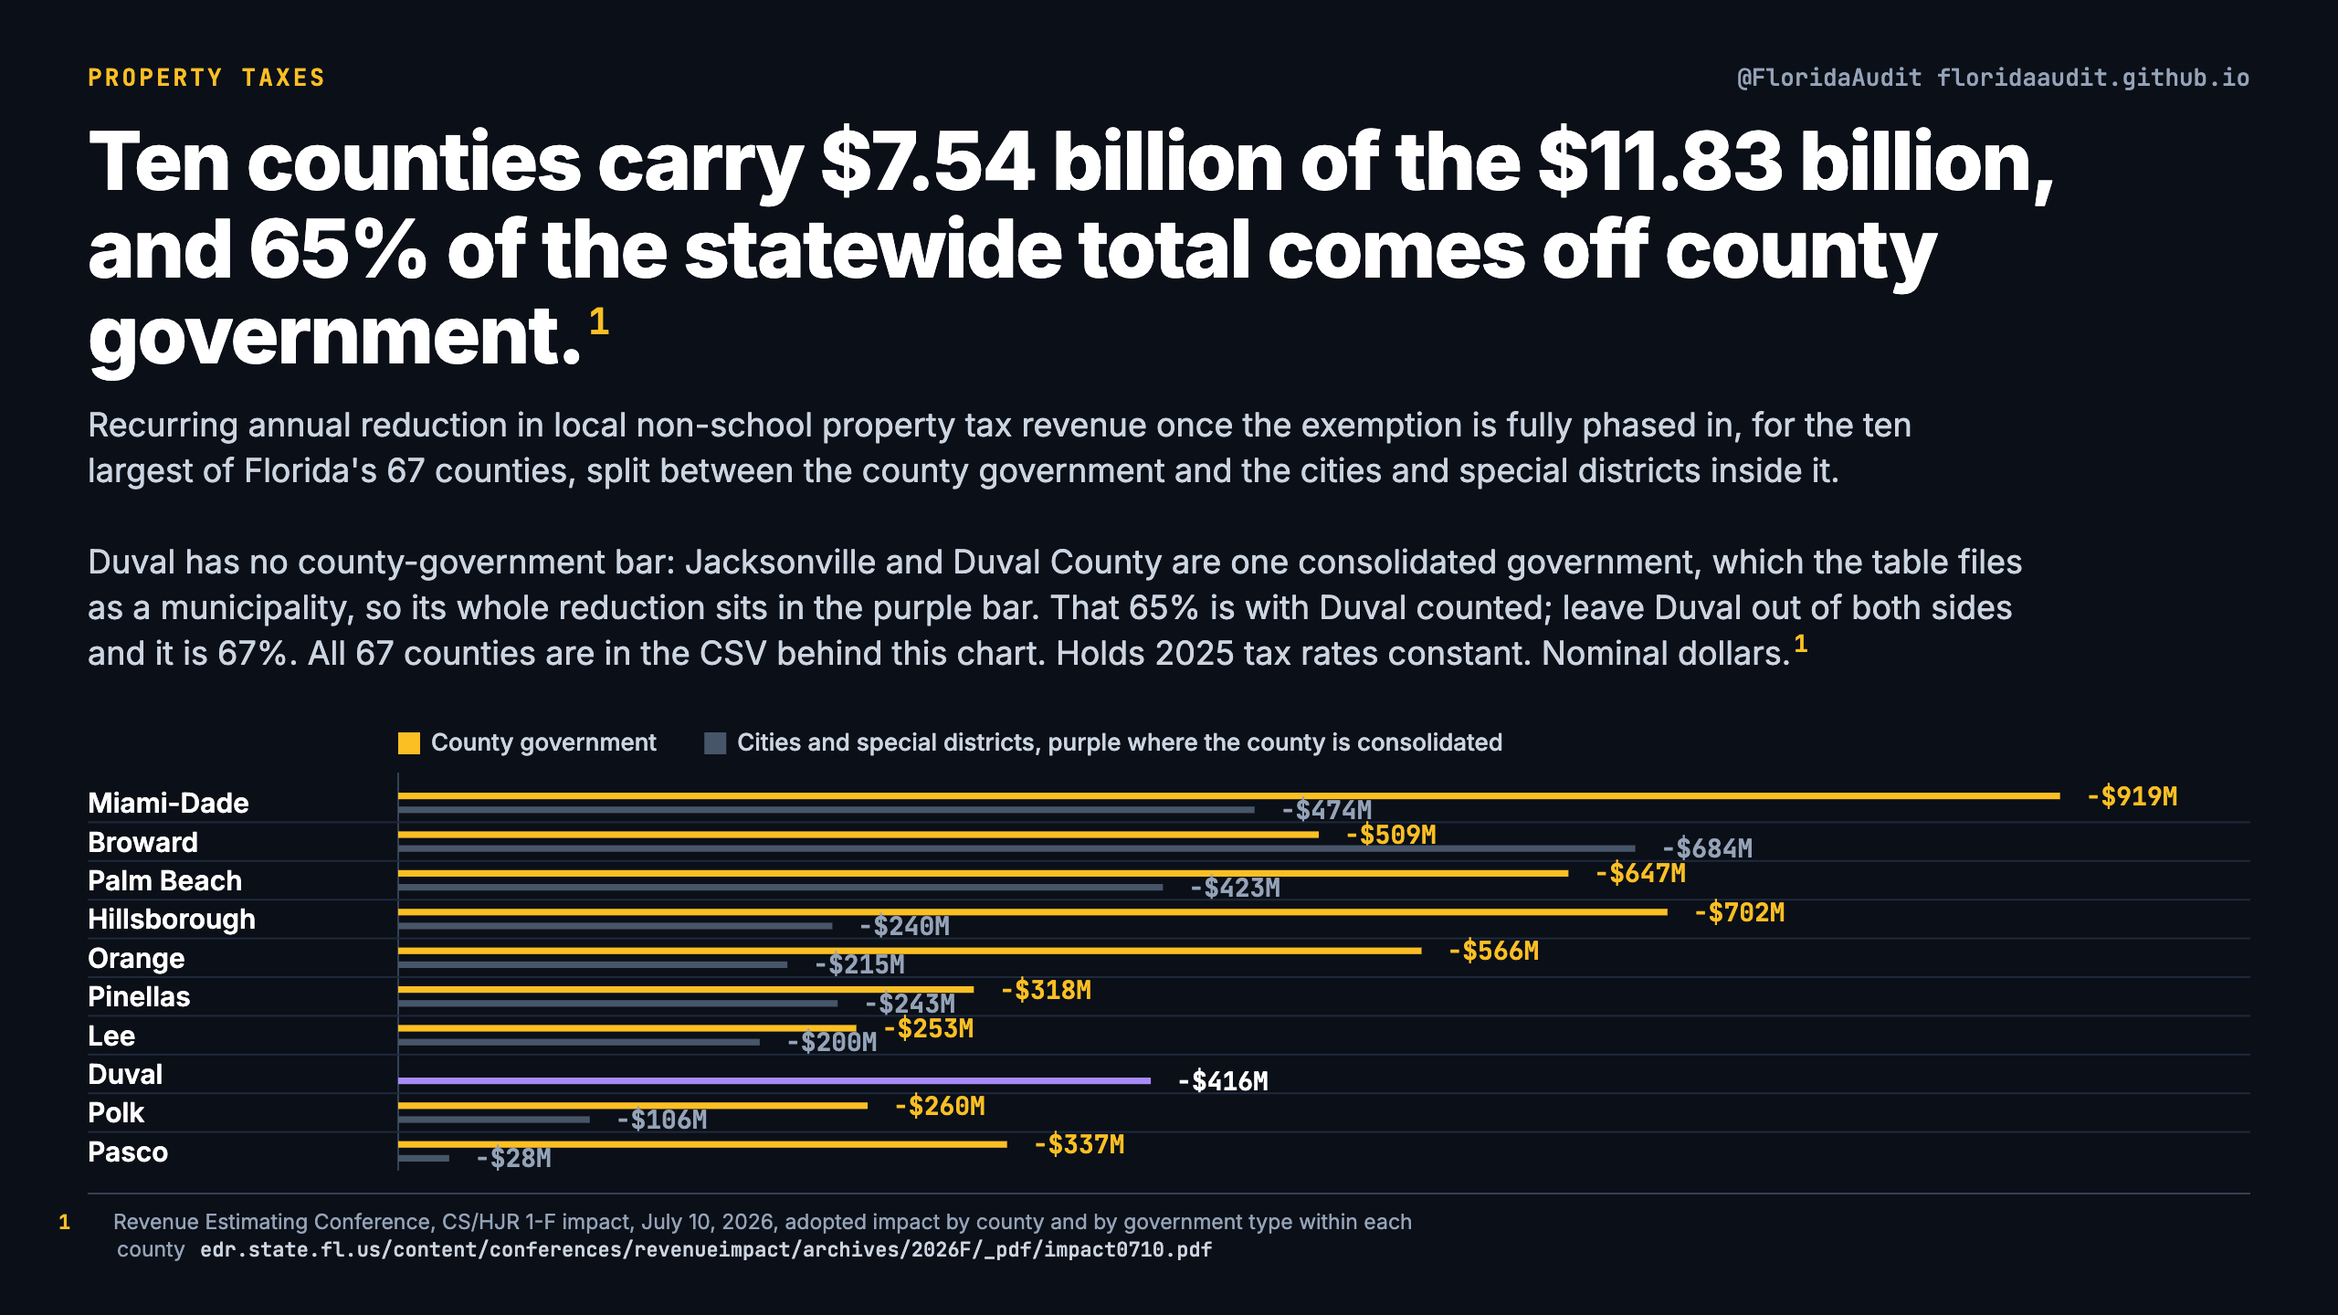
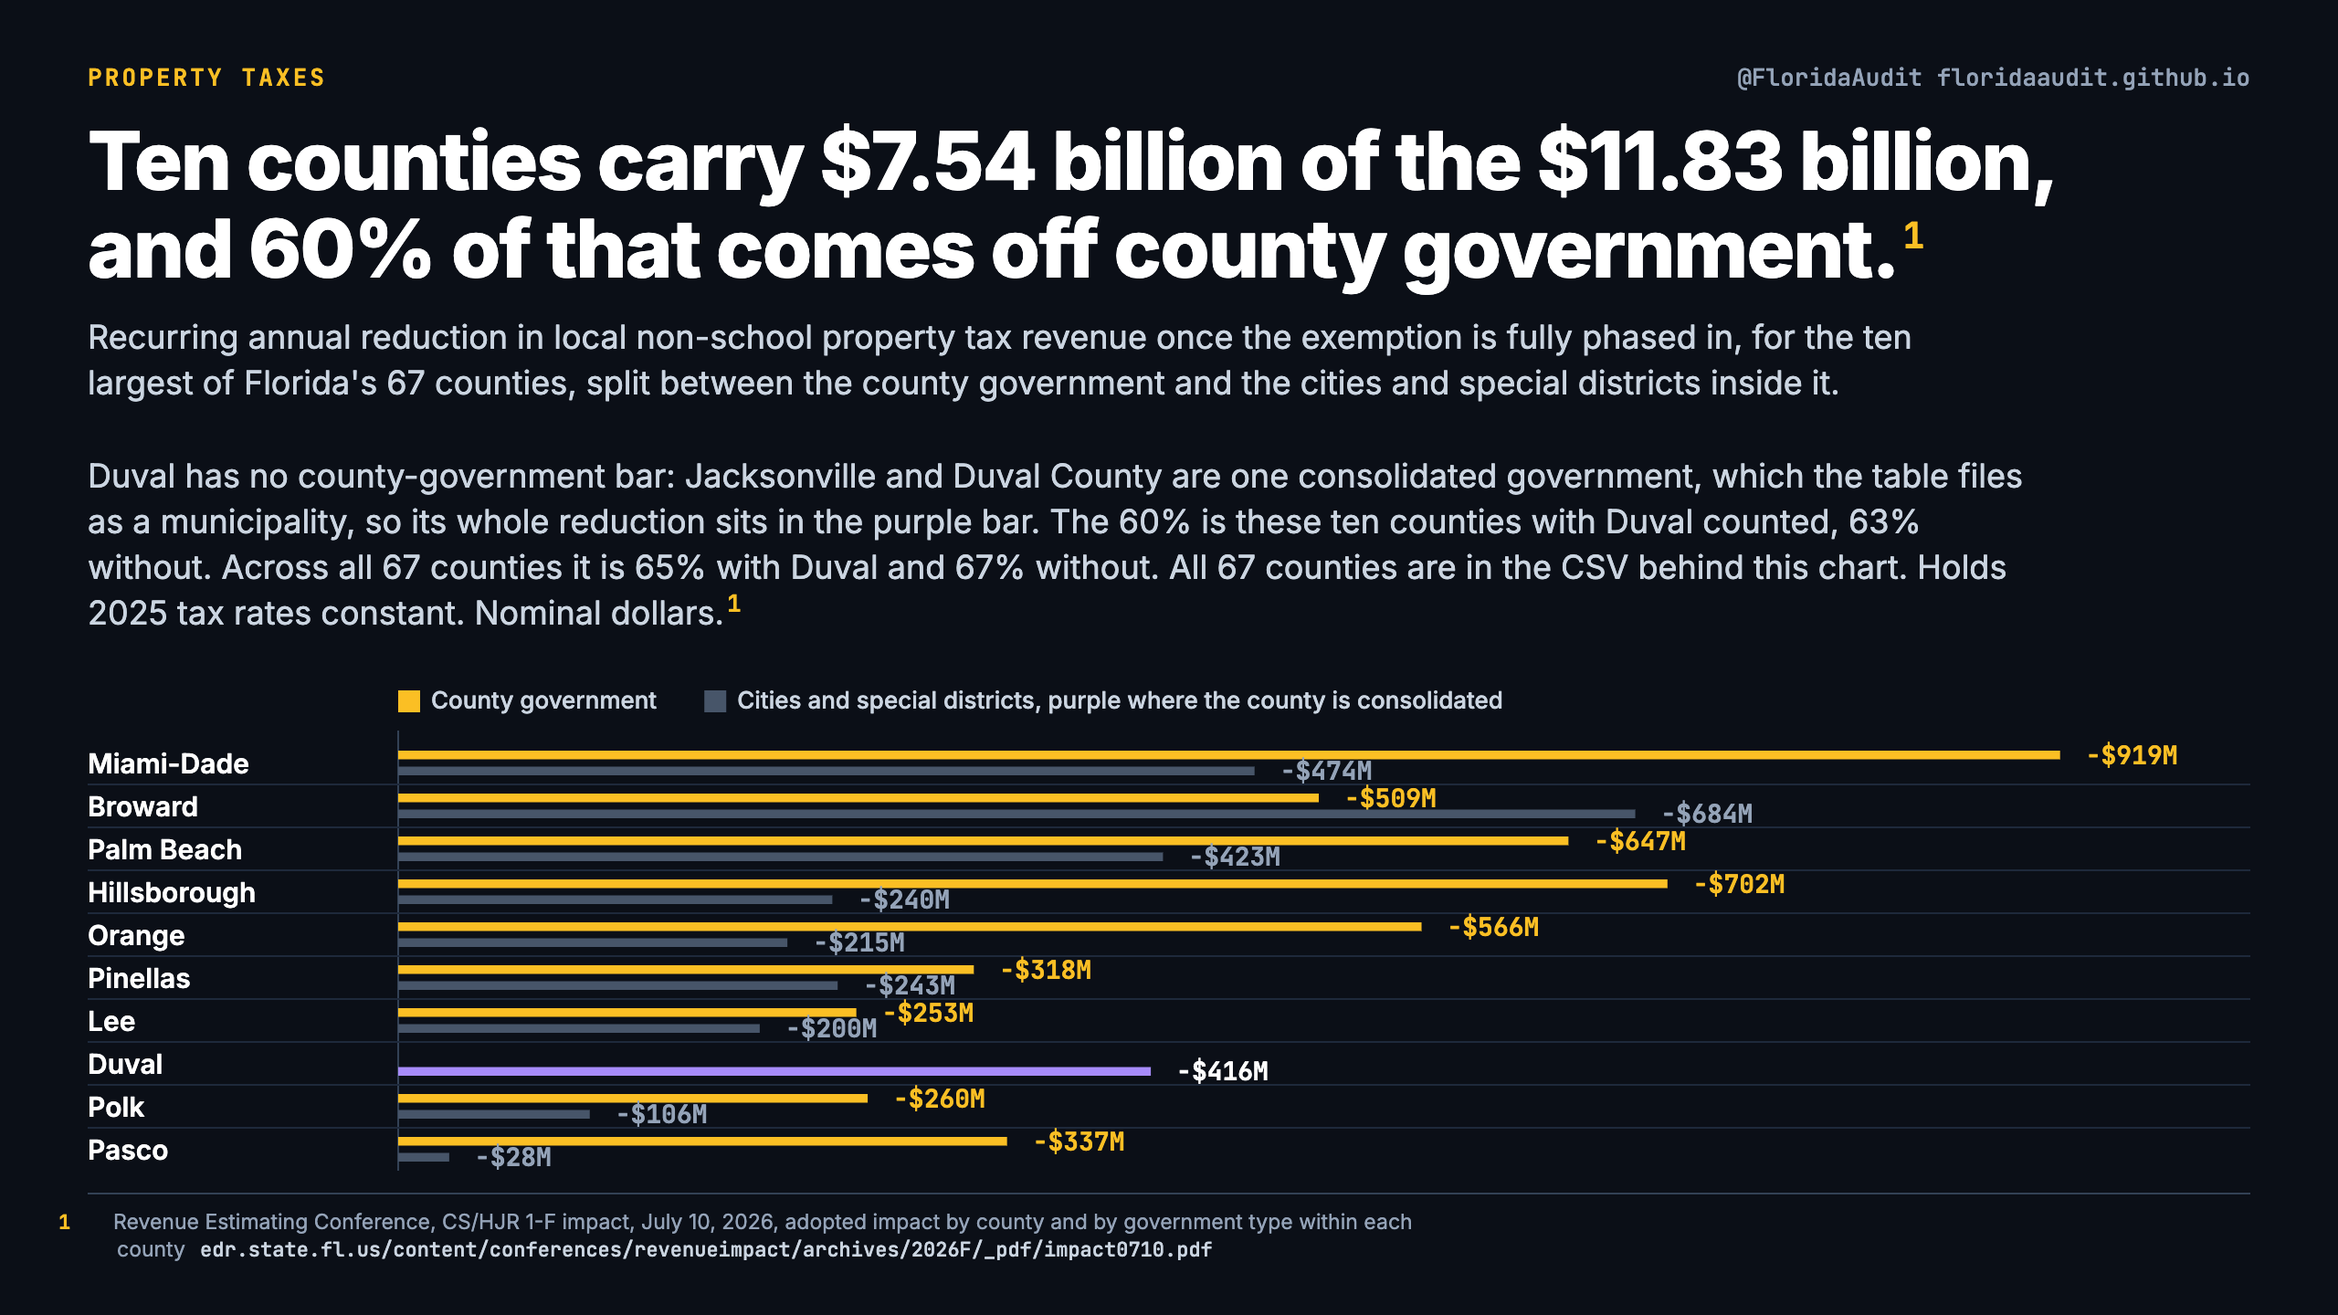
Chart 7 headline states the ten-county share, 60%, not the statewide 65%

Changed region(s): [[0.0312, 0.1562, 0.9375, 0.875]]

diff --git a/c/property-taxes/ten-counties-by-government-type.html b/c/property-taxes/ten-counties-by-government-type.html
@@ -3,32 +3,32 @@
 <head>
   <meta charset="utf-8">
   <meta name="viewport" content="width=device-width, initial-scale=1">
-  <title>Ten counties carry $7.54 billion of the $11.83 billion, and 65% of the statewide total comes off county government. · Florida Audit Project</title>
+  <title>Ten counties carry $7.54 billion of the $11.83 billion, and 60% of that comes off county government. · Florida Audit Project</title>
   <meta name="description" content="Property Taxes: Recurring annual reduction in local non-school property tax revenue once the exemption is fully phased in, for the ten largest of Florida's...">
   <link rel="canonical" href="https://floridaaudit.github.io/c/property-taxes/ten-counties-by-government-type.html">
   <meta name="robots" content="index, follow, max-image-preview:large">
   <meta property="og:type" content="article">
   <meta property="og:site_name" content="Florida Audit Project">
-  <meta property="og:title" content="Ten counties carry $7.54 billion of the $11.83 billion, and 65% of the statewide total comes off county government.">
+  <meta property="og:title" content="Ten counties carry $7.54 billion of the $11.83 billion, and 60% of that comes off county government.">
   <meta property="og:description" content="Property Taxes: Recurring annual reduction in local non-school property tax revenue once the exemption is fully phased in, for the ten largest of Florida's...">
   <meta property="og:url" content="https://floridaaudit.github.io/c/property-taxes/ten-counties-by-government-type.html">
   <meta property="og:image" content="https://floridaaudit.github.io/charts/property-taxes/ten-counties-by-government-type-card.png">
   <meta property="og:image:width" content="1200">
   <meta property="og:image:height" content="630">
-  <meta property="og:image:alt" content="Ten counties carry $7.54 billion of the $11.83 billion, and 65% of the statewide total comes off county government. Recurring annual reduction in local non-school property tax revenue once the exemption is fully phased in, for the ten largest of Florida's 67 counties, split between the county government and the cities and special districts inside it. Duval has no county-government bar: Jacksonville and Duval County are one consolidated government, which the table files as a municipality, so its whole reduction sits in the purple bar. That 65% is with Duval counted; leave Duval out of both sides and it is 67%. All 67 counties are in the CSV behind this chart. Holds 2025 tax rates constant. Nominal dollars.">
+  <meta property="og:image:alt" content="Ten counties carry $7.54 billion of the $11.83 billion, and 60% of that comes off county government. Recurring annual reduction in local non-school property tax revenue once the exemption is fully phased in, for the ten largest of Florida's 67 counties, split between the county government and the cities and special districts inside it. Duval has no county-government bar: Jacksonville and Duval County are one consolidated government, which the table files as a municipality, so its whole reduction sits in the purple bar. The 60% is these ten counties with Duval counted, 63% without. Across all 67 counties it is 65% with Duval and 67% without. All 67 counties are in the CSV behind this chart. Holds 2025 tax rates constant. Nominal dollars.">
   <meta name="twitter:card" content="summary_large_image">
   <meta name="twitter:site" content="@FloridaAudit">
-  <meta name="twitter:title" content="Ten counties carry $7.54 billion of the $11.83 billion, and 65% of the statewide total comes off county government.">
+  <meta name="twitter:title" content="Ten counties carry $7.54 billion of the $11.83 billion, and 60% of that comes off county government.">
   <meta name="twitter:description" content="Property Taxes: Recurring annual reduction in local non-school property tax revenue once the exemption is fully phased in, for the ten largest of Florida's...">
   <meta name="twitter:image" content="https://floridaaudit.github.io/charts/property-taxes/ten-counties-by-government-type-card.png">
-  <meta name="twitter:image:alt" content="Ten counties carry $7.54 billion of the $11.83 billion, and 65% of the statewide total comes off county government. Recurring annual reduction in local non-school property tax revenue once the exemption is fully phased in, for the ten largest of Florida's 67 counties, split between the county government and the cities and special districts inside it. Duval has no county-government bar: Jacksonville and Duval County are one consolidated government, which the table files as a municipality, so its whole reduction sits in the purple bar. That 65% is with Duval counted; leave Duval out of both sides and it is 67%. All 67 counties are in the CSV behind this chart. Holds 2025 tax rates constant. Nominal dollars.">
+  <meta name="twitter:image:alt" content="Ten counties carry $7.54 billion of the $11.83 billion, and 60% of that comes off county government. Recurring annual reduction in local non-school property tax revenue once the exemption is fully phased in, for the ten largest of Florida's 67 counties, split between the county government and the cities and special districts inside it. Duval has no county-government bar: Jacksonville and Duval County are one consolidated government, which the table files as a municipality, so its whole reduction sits in the purple bar. The 60% is these ten counties with Duval counted, 63% without. Across all 67 counties it is 65% with Duval and 67% without. All 67 counties are in the CSV behind this chart. Holds 2025 tax rates constant. Nominal dollars.">
   <link rel="icon" href="/assets/favicon.png" type="image/png">
   <link rel="stylesheet" href="/assets/site.css">
   <script type="application/ld+json">
 {
   "@context": "https://schema.org",
   "@type": "Dataset",
-  "name": "Ten counties carry $7.54 billion of the $11.83 billion, and 65% of the statewide total comes off county government.",
+  "name": "Ten counties carry $7.54 billion of the $11.83 billion, and 60% of that comes off county government.",
   "description": "Property Taxes: Recurring annual reduction in local non-school property tax revenue once the exemption is fully phased in, for the ten largest of Florida's...",
   "url": "https://floridaaudit.github.io/c/property-taxes/ten-counties-by-government-type.html",
   "license": "https://creativecommons.org/publicdomain/zero/1.0/",
@@ -67,10 +67,10 @@
 <main>
   <article>
     <p class="kicker">Property Taxes</p>
-    <h1>Ten counties carry $7.54 billion of the $11.83 billion, and 65% of the statewide total comes off county government.</h1>
-    <p class="sub">Recurring annual reduction in local non-school property tax revenue once the exemption is fully phased in, for the ten largest of Florida's 67 counties, split between the county government and the cities and special districts inside it. Duval has no county-government bar: Jacksonville and Duval County are one consolidated government, which the table files as a municipality, so its whole reduction sits in the purple bar. That 65% is with Duval counted; leave Duval out of both sides and it is 67%. All 67 counties are in the CSV behind this chart. Holds 2025 tax rates constant. Nominal dollars.</p>
+    <h1>Ten counties carry $7.54 billion of the $11.83 billion, and 60% of that comes off county government.</h1>
+    <p class="sub">Recurring annual reduction in local non-school property tax revenue once the exemption is fully phased in, for the ten largest of Florida's 67 counties, split between the county government and the cities and special districts inside it. Duval has no county-government bar: Jacksonville and Duval County are one consolidated government, which the table files as a municipality, so its whole reduction sits in the purple bar. The 60% is these ten counties with Duval counted, 63% without. Across all 67 counties it is 65% with Duval and 67% without. All 67 counties are in the CSV behind this chart. Holds 2025 tax rates constant. Nominal dollars.</p>
     <figure>
-      <img src="/charts/property-taxes/ten-counties-by-government-type.webp" width="1280" height="720" alt="Ten counties carry $7.54 billion of the $11.83 billion, and 65% of the statewide total comes off county government. Recurring annual reduction in local non-school property tax revenue once the exemption is fully phased in, for the ten largest of Florida's 67 counties, split between the county government and the cities and special districts inside it. Duval has no county-government bar: Jacksonville and Duval County are one consolidated government, which the table files as a municipality, so its whole reduction sits in the purple bar. That 65% is with Duval counted; leave Duval out of both sides and it is 67%. All 67 counties are in the CSV behind this chart. Holds 2025 tax rates constant. Nominal dollars.">
+      <img src="/charts/property-taxes/ten-counties-by-government-type.webp" width="1280" height="720" alt="Ten counties carry $7.54 billion of the $11.83 billion, and 60% of that comes off county government. Recurring annual reduction in local non-school property tax revenue once the exemption is fully phased in, for the ten largest of Florida's 67 counties, split between the county government and the cities and special districts inside it. Duval has no county-government bar: Jacksonville and Duval County are one consolidated government, which the table files as a municipality, so its whole reduction sits in the purple bar. The 60% is these ten counties with Duval counted, 63% without. Across all 67 counties it is 65% with Duval and 67% without. All 67 counties are in the CSV behind this chart. Holds 2025 tax rates constant. Nominal dollars.">
       <figcaption>Full size: <a href="/charts/property-taxes/ten-counties-by-government-type.png">PNG, 2560 by 1440</a></figcaption>
     </figure>
     <p class="download"><a href="/data/property-taxes/county-impact-by-tier.csv">Download the data behind this chart (county-impact-by-tier.csv)</a></p>

diff --git a/c/property-taxes/index.html b/c/property-taxes/index.html
@@ -35,7 +35,7 @@
       <li><a href="/c/property-taxes/seven-permitted-uses.html"><img src="/charts/property-taxes/seven-permitted-uses.webp" width="1280" height="720" alt="Amendment 3 lists seven permitted uses for county and city property taxes. Text of the proposed Article VII, Section 9(a)(2). School district and special district levies are not covered by this list." loading="lazy"><span>Amendment 3 lists seven permitted uses for county and city property taxes.</span></a></li>
       <li><a href="/c/property-taxes/legislature-roll-call.html"><img src="/charts/property-taxes/legislature-roll-call.webp" width="1280" height="720" alt="Amendment 3 is on the ballot because the Legislature put it there: 75-26 in the House, 30-9 in the Senate. Votes on June 2, 2026 on CS/HJR 1-F. A joint resolution does not go to the governor." loading="lazy"><span>Amendment 3 is on the ballot because the Legislature put it there: 75-26 in the House, 30-9 in the Senate.</span></a></li>
       <li><a href="/c/property-taxes/county-share-of-2025-levies.html"><img src="/charts/property-taxes/county-share-of-2025-levies.webp" width="1280" height="720" alt="As a share of today's budget, eight counties will lose more than half of their non-school property tax by 2032. Recurring annual reduction estimated for FY2031-32, against each county's 2025 non-school levies, for every local government in the county. Holds 2025 tax rates constant. All 67 counties are in the CSV." loading="lazy"><span>As a share of today's budget, eight counties will lose more than half of their non-school property tax by 2032.</span></a></li>
-      <li><a href="/c/property-taxes/ten-counties-by-government-type.html"><img src="/charts/property-taxes/ten-counties-by-government-type.webp" width="1280" height="720" alt="Ten counties carry $7.54 billion of the $11.83 billion, and 65% of the statewide total comes off county government. Recurring annual reduction in local non-school property tax revenue once the exemption is fully phased in, for the ten largest of Florida's 67 counties, split between the county government and the cities and special districts inside it. Duval has no county-government bar: Jacksonville and Duval County are one consolidated government, which the table files as a municipality, so its whole reduction sits in the purple bar. That 65% is with Duval counted; leave Duval out of both sides and it is 67%. All 67 counties are in the CSV behind this chart. Holds 2025 tax rates constant. Nominal dollars." loading="lazy"><span>Ten counties carry $7.54 billion of the $11.83 billion, and 65% of the statewide total comes off county government.</span></a></li>
+      <li><a href="/c/property-taxes/ten-counties-by-government-type.html"><img src="/charts/property-taxes/ten-counties-by-government-type.webp" width="1280" height="720" alt="Ten counties carry $7.54 billion of the $11.83 billion, and 60% of that comes off county government. Recurring annual reduction in local non-school property tax revenue once the exemption is fully phased in, for the ten largest of Florida's 67 counties, split between the county government and the cities and special districts inside it. Duval has no county-government bar: Jacksonville and Duval County are one consolidated government, which the table files as a municipality, so its whole reduction sits in the purple bar. The 60% is these ten counties with Duval counted, 63% without. Across all 67 counties it is 65% with Duval and 67% without. All 67 counties are in the CSV behind this chart. Holds 2025 tax rates constant. Nominal dollars." loading="lazy"><span>Ten counties carry $7.54 billion of the $11.83 billion, and 60% of that comes off county government.</span></a></li>
       <li><a href="/c/property-taxes/non-homestead-assessment-cap.html"><img src="/charts/property-taxes/non-homestead-assessment-cap.webp" width="1280" height="720" alt="Separately, the yearly assessment cap on rental and commercial property would fall from 10% to 5%. Maximum annual growth in taxable assessed value for non-homestead, non-agricultural parcels, non-school levies; the current 10% cap has been in place since 2008. The cap limits the value the tax is computed on, not the market price, not the rent, and not the millage rate. The lines are an illustration calculated here, not a forecast: one parcel assessed at $1,000,000 in 2026 whose market value then rises 12% a year, about what Florida saw in 2021 and 2022. A 5% cap bites whenever growth runs above 5%; the current 10% cap only bites above 10%." loading="lazy"><span>Separately, the yearly assessment cap on rental and commercial property would fall from 10% to 5%.</span></a></li>
     </ul>
     <p class="download"><a href="/data/property-taxes/property-taxes-data.zip">Download every CSV behind these charts (7 files)</a></p>

diff --git a/index.html b/index.html
@@ -38,7 +38,7 @@
       <li><a href="/c/property-taxes/seven-permitted-uses.html">Amendment 3 lists seven permitted uses for county and city property taxes.</a></li>
       <li><a href="/c/property-taxes/legislature-roll-call.html">Amendment 3 is on the ballot because the Legislature put it there: 75-26 in the House, 30-9 in the Senate.</a></li>
       <li><a href="/c/property-taxes/county-share-of-2025-levies.html">As a share of today's budget, eight counties will lose more than half of their non-school property tax by 2032.</a></li>
-      <li><a href="/c/property-taxes/ten-counties-by-government-type.html">Ten counties carry $7.54 billion of the $11.83 billion, and 65% of the statewide total comes off county government.</a></li>
+      <li><a href="/c/property-taxes/ten-counties-by-government-type.html">Ten counties carry $7.54 billion of the $11.83 billion, and 60% of that comes off county government.</a></li>
       <li><a href="/c/property-taxes/non-homestead-assessment-cap.html">Separately, the yearly assessment cap on rental and commercial property would fall from 10% to 5%.</a></li>
     </ul>
   </section></main>
